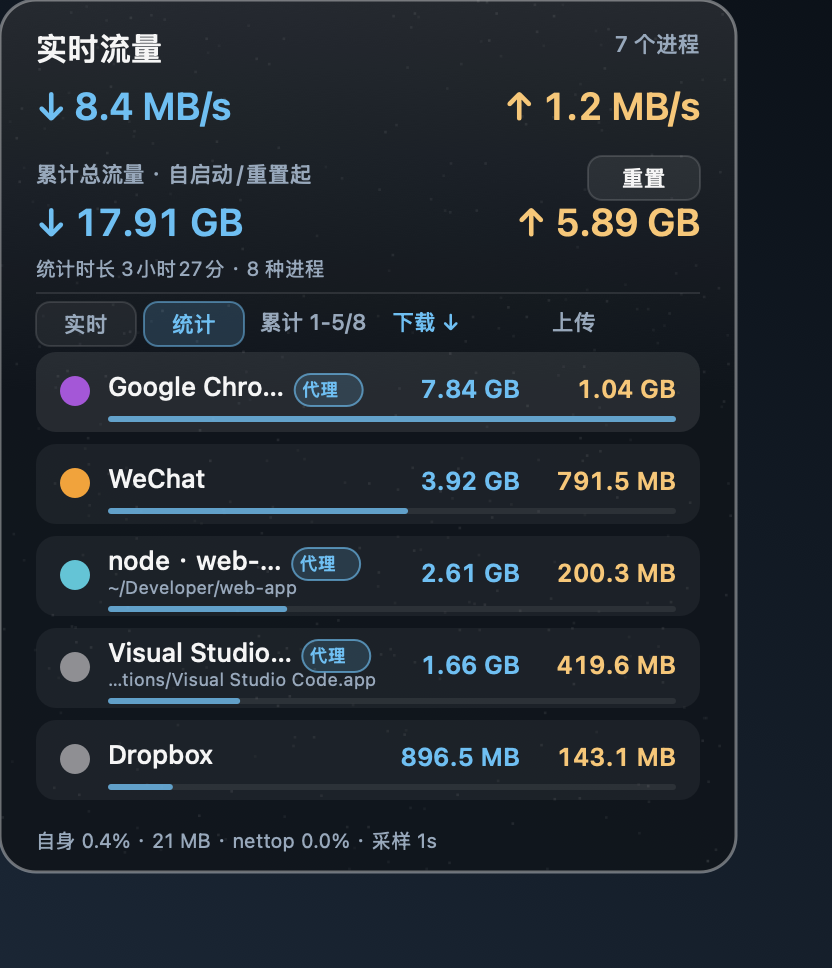
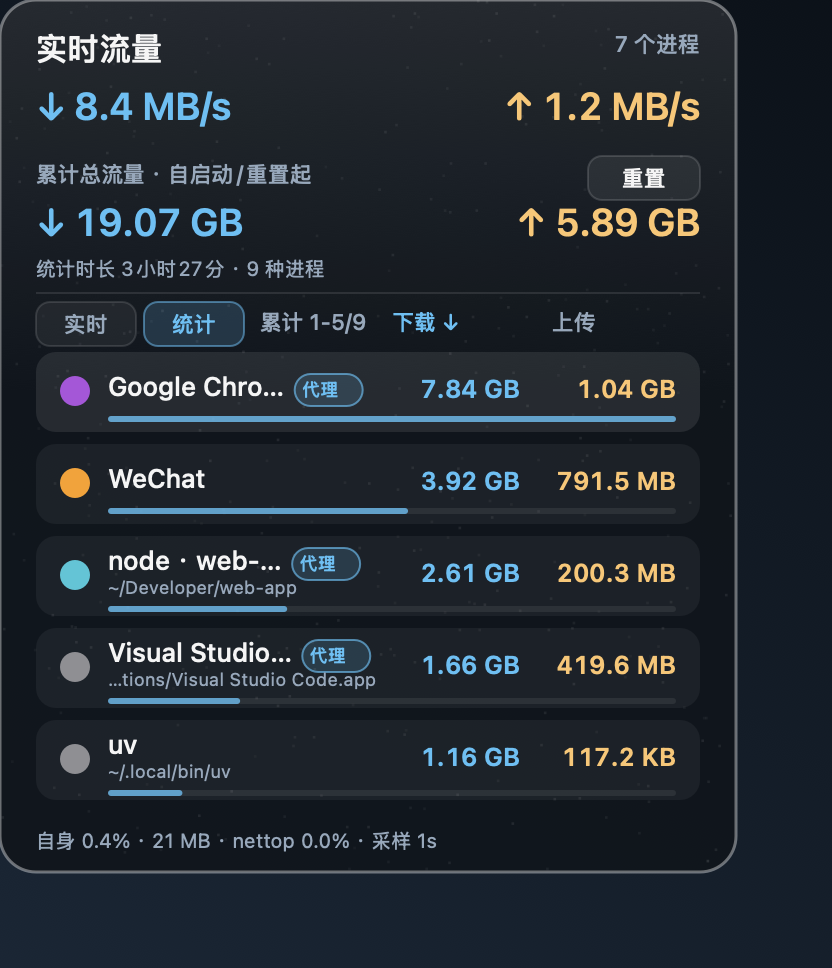
Fix statistics scrolling and identify uv

diff --git a/main.swift b/main.swift
@@ -107,8 +107,8 @@ private func footprintBytes(_ pid: pid_t) -> UInt64 {
     rusageV6(pid)?.ri_phys_footprint ?? 0
 }
 
-/// 把 nettop 的通用 runtime 名称映射成可辨认的应用/项目身份。
-/// 只显示应用包名或脚本/工作目录路径；完整命令行只在内存里解析，绝不展示其余参数。
+/// 把 nettop 的通用 runtime 名称映射成可辨认的应用/项目身份，并为 uv 显示可执行文件路径。
+/// 只显示应用包名或脚本/工作目录/可执行文件路径；完整命令行只在内存里解析，绝不展示其余参数。
 private final class ProcessIdentityResolver {
     struct Identity {
         let name: String
@@ -125,6 +125,7 @@ private final class ProcessIdentityResolver {
         let missing = processes.filter { cache[$0.pid]?.sourceName != $0.name }
         let electronProcesses = missing.filter { Self.isElectron($0.name) }
         let nodeProcesses = missing.filter { Self.isNode($0.name) }
+        let uvProcesses = missing.filter { Self.isUV($0.name) }
 
         for process in electronProcesses {
             let executable = Self.executablePath(pid: process.pid)
@@ -138,6 +139,11 @@ private final class ProcessIdentityResolver {
                 ?? process.name
             let fullPath = bundlePath ?? executable
             cache[process.pid] = (process.name, Identity(name: name, fullPath: fullPath))
+        }
+
+        for process in uvProcesses {
+            let executable = Self.executablePath(pid: process.pid)
+            cache[process.pid] = (process.name, Identity(name: process.name, fullPath: executable))
         }
 
         if !nodeProcesses.isEmpty {
@@ -175,6 +181,10 @@ private final class ProcessIdentityResolver {
 
     static func isNode(_ name: String) -> Bool {
         ["node", "nodejs"].contains(name.trimmingCharacters(in: .whitespacesAndNewlines).lowercased())
+    }
+
+    static func isUV(_ name: String) -> Bool {
+        name.trimmingCharacters(in: .whitespacesAndNewlines).lowercased() == "uv"
     }
 
     static func outermostAppBundlePath(from executablePath: String) -> String? {
@@ -330,6 +340,26 @@ final class Sampler {
                 column = newColumn
                 ascending = false
             }
+        }
+    }
+
+    /// Convert wheel/trackpad deltas to whole process-row steps; ignore zero and sub-row jitter.
+    struct StatisticsScrollAccumulator {
+        private var preciseRemainder: CGFloat = 0
+        private static let preciseStep: CGFloat = 46
+
+        mutating func consume(deltaY: CGFloat, precise: Bool) -> Int {
+            guard deltaY.isFinite, abs(deltaY) > 0.001 else { return 0 }
+            guard precise else { return deltaY > 0 ? -1 : 1 }
+            preciseRemainder += deltaY
+            let steps = Int(preciseRemainder / Self.preciseStep)
+            guard steps != 0 else { return 0 }
+            preciseRemainder -= CGFloat(steps) * Self.preciseStep
+            return -steps
+        }
+
+        mutating func reset() {
+            preciseRemainder = 0
         }
     }
 
@@ -1012,6 +1042,7 @@ final class BallView: NSView {
     var showPeriodStatistics = false
     var periodStatistics = Sampler.PeriodStatistics(since: Date(), rxBytes: 0, txBytes: 0, processes: [])
     var statisticsScrollOffset = 0
+    var statisticsScrollAccumulator = Sampler.StatisticsScrollAccumulator()
     private var statisticsSort = Sampler.StatisticsSortState()
     var selfCPU = 0.0
     var selfMemMB = 0.0
@@ -1441,6 +1472,12 @@ final class BallView: NSView {
         let processHeading: String
         if showPeriodStatistics {
             let total = periodStatistics.processes.count
+            let maxOffset = max(0, total - 5)
+            let clampedOffset = min(statisticsScrollOffset, maxOffset)
+            if clampedOffset != statisticsScrollOffset {
+                statisticsScrollOffset = clampedOffset
+                statisticsScrollAccumulator.reset()
+            }
             let start = total == 0 ? 0 : min(statisticsScrollOffset + 1, total)
             let end = min(statisticsScrollOffset + 5, total)
             processHeading = total > 5 ? "累计 \(start)-\(end)/\(total)" : "进程累计"
@@ -1460,8 +1497,6 @@ final class BallView: NSView {
              align: .right, boxWidth: 68)
 
         if showPeriodStatistics {
-            let count = periodStatistics.processes.count
-            statisticsScrollOffset = min(statisticsScrollOffset, max(0, count - 5))
             let sorted = periodStatistics.sortedProcesses(
                 byUpload: statisticsSort.column == .upload, ascending: statisticsSort.ascending)
             let top = Array(sorted.dropFirst(statisticsScrollOffset).prefix(5))
@@ -1503,6 +1538,7 @@ final class BallView: NSView {
     private func toggleStatisticsSort(_ column: Sampler.StatisticsSortState.Column) {
         statisticsSort.click(column)
         statisticsScrollOffset = 0
+        statisticsScrollAccumulator.reset()
         needsDisplay = true
     }
 
@@ -1842,13 +1878,25 @@ final class BallView: NSView {
         }
         let point = convert(event.locationInWindow, from: nil)
         guard point.y >= 172 && point.y < Metrics.panelH - 24 else {
+            statisticsScrollAccumulator.reset()
             super.scrollWheel(with: event)
             return
         }
         let maxOffset = max(0, periodStatistics.processes.count - 5)
-        guard maxOffset > 0 else { return }
-        let direction = event.scrollingDeltaY > 0 ? -1 : 1
-        statisticsScrollOffset = min(max(0, statisticsScrollOffset + direction), maxOffset)
+        guard maxOffset > 0 else {
+            statisticsScrollAccumulator.reset()
+            return
+        }
+        let offsetDelta = statisticsScrollAccumulator.consume(
+            deltaY: event.scrollingDeltaY, precise: event.hasPreciseScrollingDeltas)
+        guard offsetDelta != 0 else { return }
+        let nextOffset = min(max(0, statisticsScrollOffset + offsetDelta), maxOffset)
+        guard nextOffset != statisticsScrollOffset else {
+            statisticsScrollAccumulator.reset()
+            return
+        }
+        statisticsScrollOffset = nextOffset
+        if nextOffset == 0 || nextOffset == maxOffset { statisticsScrollAccumulator.reset() }
         needsDisplay = true
     }
 
@@ -2360,7 +2408,10 @@ final class Controller: NSObject, NSApplicationDelegate, NSMenuDelegate {
 
     func setPeriodStatisticsVisible(_ visible: Bool) {
         view.showPeriodStatistics = visible
-        if visible { view.statisticsScrollOffset = 0 }
+        if visible {
+            view.statisticsScrollOffset = 0
+            view.statisticsScrollAccumulator.reset()
+        }
         window?.invalidateCursorRects(for: view)
         view.needsDisplay = true
     }
@@ -2368,6 +2419,7 @@ final class Controller: NSObject, NSApplicationDelegate, NSMenuDelegate {
     func resetPeriodStatistics() {
         view.periodStatistics = sampler.resetPeriodStatistics()
         view.statisticsScrollOffset = 0
+        view.statisticsScrollAccumulator.reset()
         view.needsDisplay = true
     }
 
@@ -2986,6 +3038,18 @@ if argv.contains("--stats-test") {
     precondition(sort.column == .upload && sort.ascending)
     sort.click(.download)
     precondition(sort.column == .download && !sort.ascending)
+
+    var scroll = Sampler.StatisticsScrollAccumulator()
+    precondition(scroll.consume(deltaY: 0, precise: true) == 0) // zero-delta events must not move the list
+    precondition(scroll.consume(deltaY: -23, precise: true) == 0)
+    precondition(scroll.consume(deltaY: -23, precise: true) == 1) // one row down after 46pt
+    precondition(scroll.consume(deltaY: 23, precise: true) == 0)
+    precondition(scroll.consume(deltaY: 23, precise: true) == -1) // reverse gesture restores the top row
+    precondition(scroll.consume(deltaY: 0, precise: false) == 0)
+    precondition(scroll.consume(deltaY: -1, precise: false) == 1)
+    scroll.reset()
+    precondition(scroll.consume(deltaY: 23, precise: true) == 0) // no stale fractional delta after reset
+
     acc.reset(at: start.addingTimeInterval(60))
     precondition(acc.snapshot().rxBytes == 0 && acc.snapshot().processes.isEmpty)
     precondition(Fmt.bytes(1_536) == "1.5 KB")
@@ -3008,6 +3072,8 @@ if argv.contains("--stats-test") {
 
     precondition(ProcessIdentityResolver.isElectron("Electron Helper"))
     precondition(ProcessIdentityResolver.isNode("node"))
+    precondition(ProcessIdentityResolver.isUV("uv"))
+    precondition(!ProcessIdentityResolver.isUV("uvicorn"))
     precondition(ProcessIdentityResolver.outermostAppBundlePath(
         from: "/Applications/Editor.app/Contents/Frameworks/Helper.app/Contents/MacOS/Electron")
         == "/Applications/Editor.app")
@@ -3044,7 +3110,7 @@ if argv.contains("--stats-test") {
                                               point: NSPoint(x: 60, y: 180), userData: nil)
     precondition(statisticsTooltip == "完整路径：\n/Users/me/Project/server.js")
 
-    print("统计/身份自检通过：同进程身份聚合、不同应用/脚本路径分组、Electron 包路径识别、Node 入口提取、命令行参数隐去、实时/累计路径提示、累计与排序/重置")
+    print("统计/身份自检通过：同进程身份聚合、不同应用/脚本路径分组、Electron 包路径识别、Node 入口提取、uv 可执行路径、命令行参数隐去、路径提示、滚动反向恢复、累计与排序/重置")
     exit(0)
 }
 
@@ -3211,6 +3277,8 @@ if let i = argv.firstIndex(of: "--snapshot"), i + 1 < argv.count {
                                           fullPath: NSHomeDirectory() + "/Developer/web-app"),
                     Sampler.ProcessTotal(name: "Visual Studio Code", rxBytes: 1_780_000_000, txBytes: 440_000_000, viaProxy: true,
                                           fullPath: "/Applications/Visual Studio Code.app"),
+                    Sampler.ProcessTotal(name: "uv", rxBytes: 1_250_000_000, txBytes: 120_000, viaProxy: false,
+                                          fullPath: NSHomeDirectory() + "/.local/bin/uv"),
                     Sampler.ProcessTotal(name: "Dropbox", rxBytes: 940_000_000, txBytes: 150_000_000, viaProxy: false),
                     Sampler.ProcessTotal(name: "Safari", rxBytes: 620_000_000, txBytes: 87_000_000, viaProxy: true),
                     Sampler.ProcessTotal(name: "Steam Helper", rxBytes: 340_000_000, txBytes: 92_000_000, viaProxy: false),

diff --git a/README.md b/README.md
@@ -19,8 +19,8 @@
 - **纯菜单栏模式**：只显示实时下行/上行速率，不需要悬浮球。菜单栏图标 →「显示模式」→「菜单栏（不显示悬浮球）」；需要时悬停图标仍可打开主面板。
 - **菜单栏实时速率**：上下行速率常驻显示，7 种紧凑样式可选。
 - **总量累计统计**：展开主面板切到「统计」，查看自启动或上次重置以来的累计下行/上行字节数，并可一键重置统计周期。
-- **进程身份与路径**：Electron 进程优先显示所属 `.app` 的应用名；Node 进程显示入口脚本或工作目录。对应行会显示缩短路径，悬停可查看完整路径；不会显示命令行中的其他参数。累计统计按应用包/脚本路径分组，不同 Electron 应用或 Node 项目不会再合并成同一个名称。
-- **按进程累计统计**：按应用/项目身份分别汇总上下行流量；同一应用包或脚本的多个 PID 合并，默认按下载量降序。点击「下载」或「上传」列可切换排序，再次点击当前列切换升/降序；列表可滚动查看全部进程。实时排行仍可切回查看 Top 5。
+- **进程身份与路径**：Electron 进程优先显示所属 `.app` 的应用名；Node 进程显示入口脚本或工作目录；名为 `uv` 的进程显示可执行文件路径。对应行会显示缩短路径，悬停可查看完整路径；不会显示命令行中的其他参数。累计统计按应用包/脚本路径分组，不同 Electron 应用或 Node 项目不会再合并成同一个名称。
+- **按进程累计统计**：按应用/项目身份分别汇总上下行流量；同一应用包或脚本的多个 PID 合并，默认按下载量降序。点击「下载」或「上传」列可切换排序，再次点击当前列切换升/降序；列表可滚动查看全部进程，触控板按实际滚动距离移动，避免零位移事件误移列表。实时排行仍可切回查看 Top 5。
 - **可选悬浮球**：毛玻璃球或曲线胶囊，置顶显示；单击即可展开面板。
 - **轻量采样**：通过 `nettop` 单次快照计算速率，无需 `sudo` 或网络扩展；默认每 2 秒采样。
 - **有限的代理识别**：仅使用固定的 mihomo / Clash Verge Rev 端点和进程名回退；不保证适配其他代理配置，详见下文。
@@ -28,7 +28,7 @@
 <p align="center">
   <img src="shots/panel-stats.png" width="420" alt="统计面板：累计总流量及按进程分类的累计上下行字节数（示例数据）">
 </p>
-<p align="center"><sub>累计统计从应用启动或手动重置时开始；相同应用包/脚本路径的进程合并，滚动可查看完整列表。Electron 与 Node 行显示路径摘要，悬停可查看完整路径。</sub></p>
+<p align="center"><sub>累计统计从应用启动或手动重置时开始；相同应用包/脚本路径的进程合并，滚动可查看完整列表。Electron、Node 与 uv 行显示路径摘要，悬停可查看完整路径。</sub></p>
 
 ## 快速开始
 
@@ -250,7 +250,7 @@ rm "$HOME/Library/LaunchAgents/local.netball.plist"
 
 ## 已知限制
 
-- 普通进程仍沿用 nettop 的进程名（可能被截断）；Electron 通过可执行路径定位 `.app`，Node 尝试从入口脚本或工作目录识别项目。macOS 权限限制、短命进程或无法读取参数时可能只能显示运行时可执行路径/原始名称；完整命令行参数不会展示。统计按可识别的应用包/脚本/工作目录路径分组，其他进程仍按名称合并同名 PID
+- 普通进程仍沿用 nettop 的进程名（可能被截断）；Electron 通过可执行路径定位 `.app`，Node 尝试从入口脚本或工作目录识别项目，名为 `uv` 的进程显示其可执行文件路径。macOS 权限限制、短命进程或无法读取参数时可能只能显示运行时可执行路径/原始名称；完整命令行参数不会展示。统计按可识别的应用包/脚本/工作目录路径分组，其他进程仍按名称合并同名 PID。
 - 累计统计只在本次运行中保留，从启动或手动重置开始；退出/重启应用后不持久化
 - 总速率 = 各进程增量之和；生命周期极短的进程可能漏计
 - 菜单栏图标没出现？macOS 26 新增了「系统设置 → 菜单栏」隐私开关。程序启动 2.5 秒后会自检，若图标不可见会**自动回退成「菜单栏 + 悬浮球」**，避免变成一个看不见也关不掉的隐形进程
